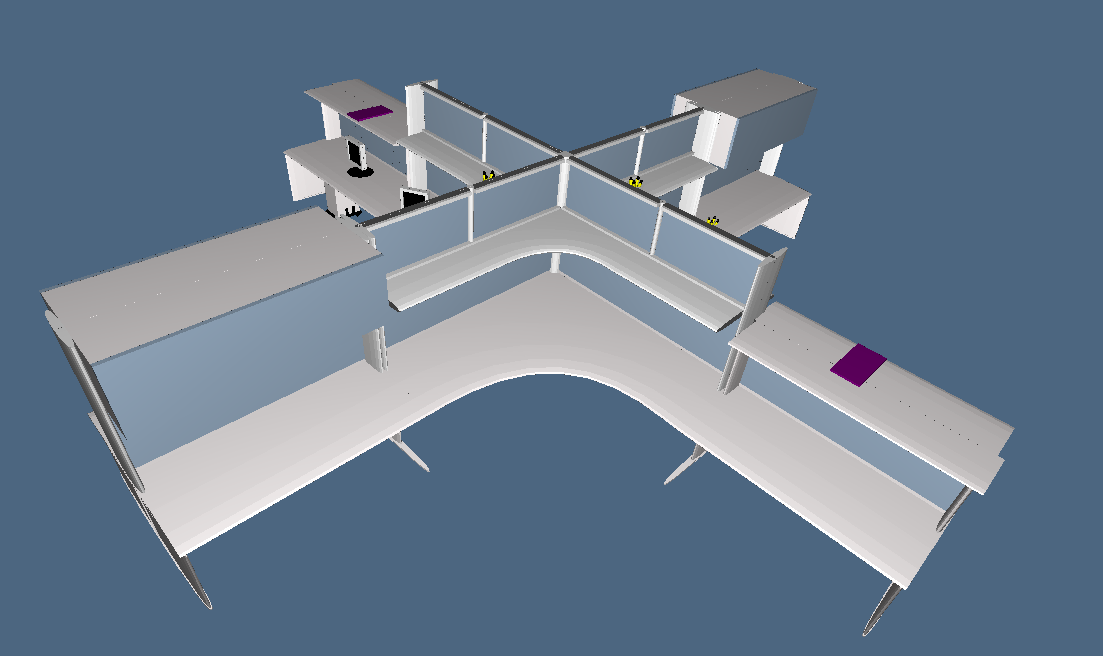
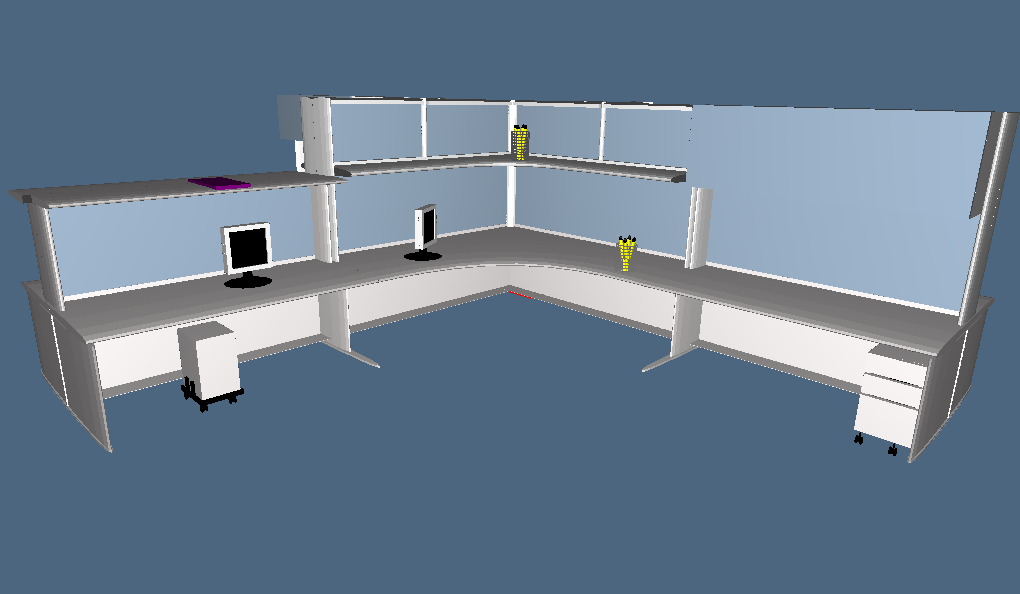
update

diff --git a/plasm/javascript/linx.js b/plasm/javascript/linx.js
@@ -546,7 +546,7 @@ var create_pen = function(r,h){
 
 var pen = R([1,2])(PI/14)(create_pen(0.05,0.9))
 var array_pen = STRUCT([pen])
-for(var i = 1 ; i<=4; i++){
+for(var i = 1 ; i<=3; i++){
 array_pen = STRUCT([array_pen,R([0,1])([i*PI/2])(pen)])
 }
 
@@ -556,7 +556,11 @@ var base = SKELETON(1)(MAP(BEZIER(S1)([circle1,[0,0,0]]))(DOMAIN([[0,2*PI],[0,1]
 var takepen = SKELETON(1)(MAP(BEZIER(S1)([circle2,circle1]))(DOMAIN([[0,2*PI],[0,1]])([10,10])))
 var contenitor_pen = T([0,1,2])([6,-2,2+(r)])(STRUCT([array_pen,COLOR([1,1,1])(STRUCT([base,takepen]))]))
 var array_contenitor_pen = STRUCT([contenitor_pen,T([0,1,2])([-4.3,0.6,hend-1.5+ddz+h+0.2+0.15])(contenitor_pen)])
-var array_contenitor_pen2 = R([0,1])(PI)(array_contenitor_pen)
+var array_contenitor_pen2 = STRUCT([array_contenitor_pen])
+
+for(var i = 1 ; i<=3; i++){
+array_contenitor_pen2 = STRUCT([array_contenitor_pen2,R([0,1])([i*PI/2])(array_contenitor_pen)])
+}
 
 /*start computer */
 var computer1 = CUBOID([0.1,1,1])
@@ -570,6 +574,8 @@ var diskc = T([1,2])([0.5,-0.3])(DISK(0.5,0)([20,20]))
 var computer = STRUCT([computer1,computer2,computer3,computer4,computer5,scr,COLOR([0,0,0])(cylinder),COLOR([0,0,0])(diskc)])
 var computer_array = STRUCT([T([0,1,2])([1.2,-12.97+3,2+0.601])(computer),
                              T([0,1,2])([2,-12.97+3+4.5,2+0.601])(R([0,1])(PI/6)(computer)) ])
+
+
 /*end computer*/
 
 /* pc*/
@@ -581,7 +587,6 @@ var pc_point = [[0,0,0],[0,0,1.3],[0,0.01,1.3],[0,.79,1.3],[0,0.8,1.3],[0,0.8,0]
 var pc_end = BEZIER(S0)([[0,0,0],[0,0.8,0]])
 
 var pc_nubs = NUBS(S0)(1)([0,0,1,2,3,4,5,6,6])(pc_point)
-
 var pc_point1 = [[-0.05,0,0],[-0.05,0,1.4],[-0.05,0.01,1.4],[-0.05,.79,1.4],[-0.05,0.8,1.4],[-0.05,0.8,0],[-0.05,0.8,0]]
 
 var pc_nubs1 = NUBS(S0)(1)([0,0,1,2,3,4,5,6,6])(pc_point1)
@@ -608,6 +613,7 @@ var pc_support = black(STRUCT([pc_support23,T([1])([0.85])(pc_support23),pc_supp
 
 var pc_map = mapC([pc_end,pc_nubs,pc_nubs1,pc_nubs2,pc_nubs3,pc_end3,pc_end])
 
+
 var torus = function (R, r) {
   return function (v) {
     var a = v[0];
@@ -620,6 +626,7 @@ var torus = function (R, r) {
     return [u,v,w];
   }
 }
+
 
 var domainWheel = DOMAIN([[0,2*PI],[0,1]])([20,20])
 
@@ -646,19 +653,79 @@ var wheelR2 = T([1])([0.6])(wheelRR)
 
 var wheel = black(STRUCT([wheelRR,wheelR2]))
 
-
+var wheel4R = STRUCT([T([1,2])([0.3,-0.1-0.1-0.025])(wheel),T([0,1,2])([-0.75,0.3,-0.1-0.1-0.025])(wheel)])
 
 var pc_t = STRUCT([pc_map,pc_support,T([0,2])([-0.1,-0.1-0.1-0.025])(wheel),T([0,2])([-0.95,-0.1-0.1-0.025])(wheel)]);
 
 var pc = T([0,1,2])([2,-11,0.225])(pc_t)
 
+
+var array_pc = STRUCT([pc])
+
+for(var i = 1 ; i<=3; i++){
+array_pc = STRUCT([array_pc,R([0,1])([i*PI/2])(pc)])
+}
+
+/* start */
+
+var w = 1;
+
+var h3 = 1.5;
+
+n = 1
+
+var create_stair = function(w,h3,n){
+
+
+    var front1 = white(CUBOID([w,0.1,h3*(n)]));
+    var up1 = white(T([2])([h3*(n)])(CUBOID([w,w,0.1])));
+    var left1 = white(R([0,1])(PI/2)(CUBOID([w,0,h3*(n)])));
+    var righ3t1 = T([1])([w-0.1])(front1)
+    var down = white(CUBOID([w,w]));
+    var stair1 = STRUCT([front1,up1,left1,righ3t1,down]);
+    
+
+
+  return stair1;
+}
+
+
+/*drawer stair*/
+
+var draw_board0 = white(T([1,2])([(w)*0.2,h3*0.1])(CUBOID([w-0.1,0.05,(h3/2)*0.8]))); 
+
+var draw_down = COLOR([0,0,0])(T([1,2])([(w)*0.2,(h3/2)*0.2])(CUBOID([w-0.1,w*0.6])))
+
+var draw_board1 = T([1])([(w)*0.6])(draw_board0);
+
+var draw_board = T([0])([0.1])(STRUCT([draw_board0,draw_down,draw_board1]))
+
+var draw_righ3t = white(T([0])([w])(CUBOID([0.1,w,h3/2])))
+
+var draw_object = STRUCT([draw_board ,draw_righ3t])
+
+var drawer1 = STRUCT([draw_object,T([2])([h3/2+0.05])(S([2])([0.5])(draw_object)),T([2])([h3/2+h3/4+0.1])(S([2])([0.5])(draw_object)),
+        create_stair(w,h3,n)])
+
+//var table_leg2 = T([0,1])([8.52-dx+0.07,12.97])(R([0,1])(-PI/2)(table_leg23))
+
+var drawer = T([0,1,2])([8.52-dx+0.07+4.9,-1.4,0.275])(R([0,1])(-PI/2)(STRUCT([drawer1,T([0,1])([w,-0.25])(wheel4R)])))
+
+var array_drawer = STRUCT([drawer])
+
+for(var i = 1 ; i<=3; i++){
+array_drawer= STRUCT([array_drawer,R([0,1])(i*PI/2)(drawer)])
+}
+
+
 /*END*/
 
 var final_model = STRUCT([final_model1,final_model2,cyl,support_result,cubo_result,cubo_support_result,up,
-  drsclose,book,R([0,1])(PI)(book),array_contenitor_pen,array_contenitor_pen2,computer_array,
-  R([0,1])(PI)(computer_array),pc,R([0,1])(PI)(pc)])
+  drsclose,book,R([0,1])(PI)(book),array_contenitor_pen2,computer_array,
+  R([0,1])(PI)(computer_array),R([0,1])(PI/2)(computer_array),R([0,1])(3*PI/2)(computer_array),array_pc,array_drawer])
 
 DRAW(final_model)
+
 
 
 

diff --git a/plasm/javascriptModel.html b/plasm/javascriptModel.html
@@ -225,9 +225,10 @@ table_leg = STRUCT([make_leg(l,r,h),create_plane(y_plane,z_plane,x_plane),base,b
             <a name="accessories" class="anchor" href="#welcome-to-github-pages"><span class="octicon octicon-link">
           </span></a>Accessories</h3>
           <p>Accessories:<ul>
-          <li>Monitor</li><img src="images/monitor.png"></img>
-          <li>Pen</li><img src="images/pen.png"></img>
-          <li>Pc</li><img src="images/pc.png"></img>
+          <li>Monitor</li><img src="images/monitor.png" style="width:150px;heigh:150px"></img>
+          <li>Pen</li><img src="images/pen.png" style="width:150px;heigh:150px"></img>
+          <li>Pc</li><img src="images/pc.png" style="width:150px;heigh:150px"></img>
+          <li>Bedside</li><img src="images/bedside.png" style="width:150px;heigh:150px"></img>
           </ul>
           </p>
 

diff --git a/python/pythonModel.html b/python/pythonModel.html
@@ -172,6 +172,7 @@ table_leg = STRUCT([make_leg(l,r,h),create_plane(y_plane,z_plane,x_plane),base,b
                           <li>Monitor</li><img src="images/monitor.png" style="width:150px;heigh:150px"></img>
                           <li>Pen</li><img src="images/pen.png" style="width:150px;heigh:150px"></img>
                           <li>Pc</li><img src="images/pc.png" style="width:150px;heigh:150px"></img>
+                          <li>Bedside</li><img src="images/bedside.png" style="width:150px;heigh:150px"></img>
                         </ul>
                       </p>
 

diff --git a/python/linx.py b/python/linx.py
@@ -458,7 +458,6 @@ drscloseScalate =S([1,2])([0.5,0.5])(STRUCT([drs,close]))
 drsclose_T = T([2,3])([-6.55,hend-1.5+ddz+h+0.2])(STRUCT([sxdrs,dxdrs,drscloseScalate]))
 drsclose  = STRUCT([drsclose_T,R([1,2])(1*PI/2)(drsclose_T),R([1,2])(2*PI/2)(drsclose_T),R([1,2])(3*PI/2)(drsclose_T),R([1,2])(4*PI/2)(drsclose_T)])
 
-middle = STRUCT([drsclose,cubo_result,cubo_support_result,support_result,up])
 
 ##END
 
@@ -494,7 +493,10 @@ base = SKELETON(1)(MAP(BEZIER(S2)([circle1,[0,0,0]]))(domainPI))
 takepen = SKELETON(1)(MAP(BEZIER(S2)([circle2,circle1]))(domainPI))
 contenitor_pen = T([1,2,3])([6,-2,2+(r)])(STRUCT([array_pen,COLOR([1,1,1])(STRUCT([base,takepen]))]))
 array_contenitor_pen = STRUCT([contenitor_pen,T([1,2,3])([-4.3,0.6,hend-1.5+ddz+h+0.2+0.15])(contenitor_pen)])
-array_contenitor_pen2 = R([1,2])(PI)(array_contenitor_pen)
+
+array_contenitor_pen2 = STRUCT([array_contenitor_pen,R([1,2])(2*PI/2)(array_contenitor_pen)])
+
+
 
 ##start computer */
 computer1 = CUBOID([0.1,1,1])
@@ -572,9 +574,50 @@ pc_t = STRUCT([pc_map,pc_support,T([1,3])([-0.1,-0.1-0.1-0.025])(wheel),T([1,3])
 
 pc = T([1,2,3])([2,-11,0.225])(pc_t)
 
+pc_array = STRUCT([pc,R([1,2])(2*PI/2)(pc)])
+
+wheel4R = STRUCT([T([2,3])([0.3,-0.1-0.1-0.025])(wheel),T([1,2,3])([-0.75,0.3,-0.1-0.1-0.025])(wheel)])
+
+w = 1;
+
+h3 = 1.5;
+
+n = 1
+
+def create_stair(w,h3,n):
+	front1 = white(CUBOID([w,0.1,h3*(n)]));
+	up1 = white(T([3])([h3*(n)])(CUBOID([w,w,0.1])));
+	left1 = white(R([1,2])(PI/2)(CUBOID([w,0,h3*(n)])));
+	righ3t1 = T([2])([w-0.1])(front1)
+	down = white(CUBOID([w,w]));
+	stair1 = STRUCT([front1,up1,left1,righ3t1,down]);
+	return stair1;
+
+
+
+draw_board0 = white(T([2,3])([(w)*0.2,h3*0.1])(CUBOID([w-0.1,0.05,(h3/2)*0.8]))); 
+
+draw_down = COLOR([0,0,0])(T([2,3])([(w)*0.2,(h3/2)*0.2])(CUBOID([w-0.1,w*0.6])))
+
+draw_board1 = T([2])([(w)*0.6])(draw_board0);
+
+draw_board = T([1])([0.1])(STRUCT([draw_board0,draw_down,draw_board1]))
+
+draw_righ3t = white(T([1])([w])(CUBOID([0.1,w,h3/2])))
+
+draw_object = STRUCT([draw_board ,draw_righ3t])
+
+drawer1 = STRUCT([draw_object,T([3])([h3/2+0.05])(S([3])([0.5])(draw_object)),T([3])([h3/2+h3/4+0.1])(S([3])([0.5])(draw_object)),
+        create_stair(w,h3,n)])
+
+drawer = T([1,2,3])([8.52-dx+0.07+4.9,-1.4,0.275])(R([1,2])(-PI/2)(STRUCT([drawer1,T([1,2])([w,-0.25])(wheel4R)])))
+
+array_drawer = STRUCT([drawer,R([1,2])(1*PI/2)(drawer),R([1,2])(2*PI/2)(drawer),R([1,2])(3*PI/2)(drawer)])
+
+
 final_model = STRUCT([final_model1,final_model2,cyl,support_result,cubo_result,cubo_support_result,up,
-	drsclose,book,R([1,2])(PI)(book),array_contenitor_pen,array_contenitor_pen2,computer_array,
-	R([1,2])(PI)(computer_array),pc,R([1,2])(PI)(pc)
+	drsclose,book,R([1,2])(PI)(book),array_contenitor_pen2,computer_array,
+	R([1,2])(PI)(computer_array),pc_array,array_drawer
 	])
 
 DRAW(final_model)
